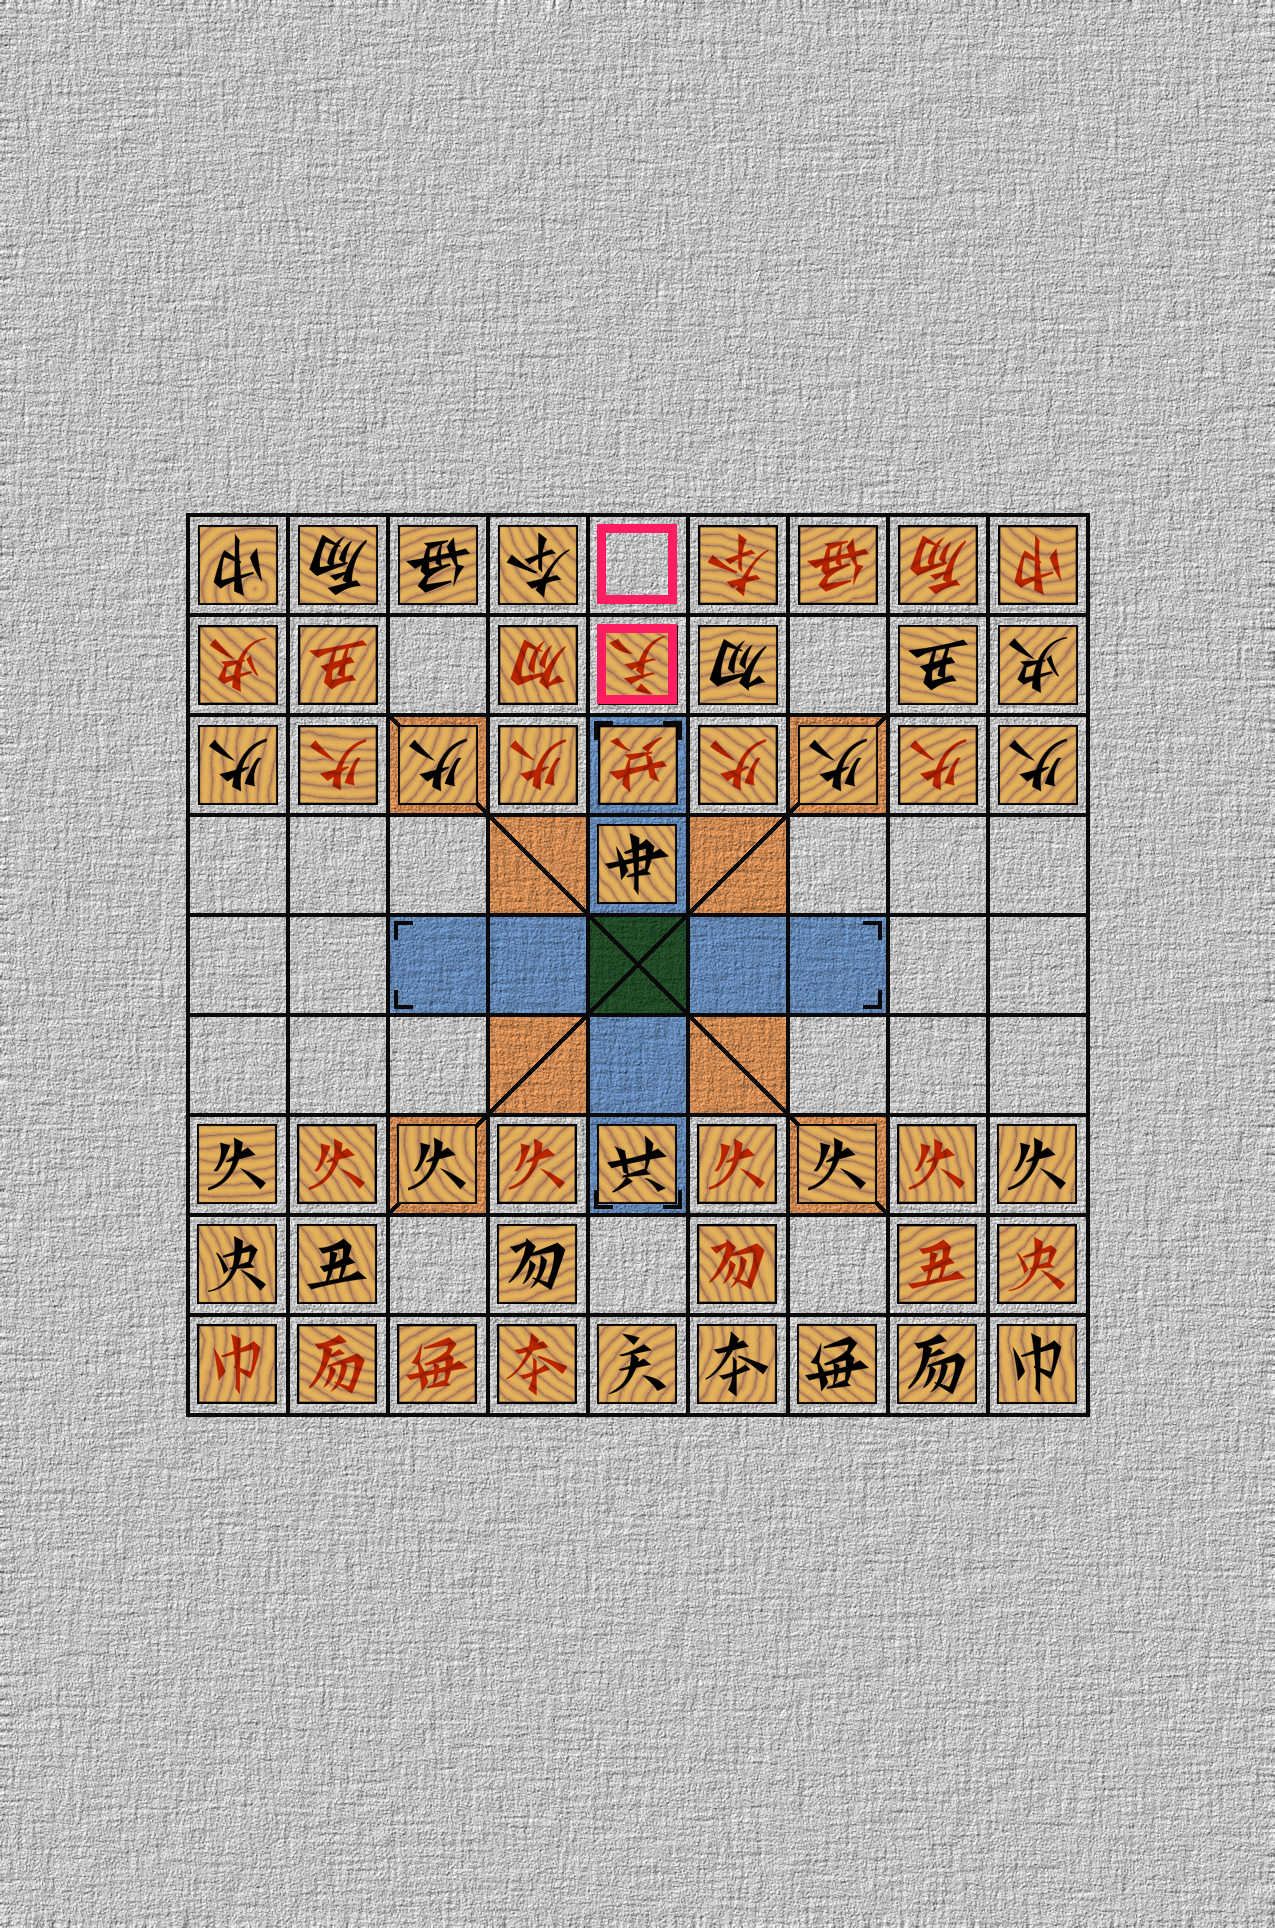
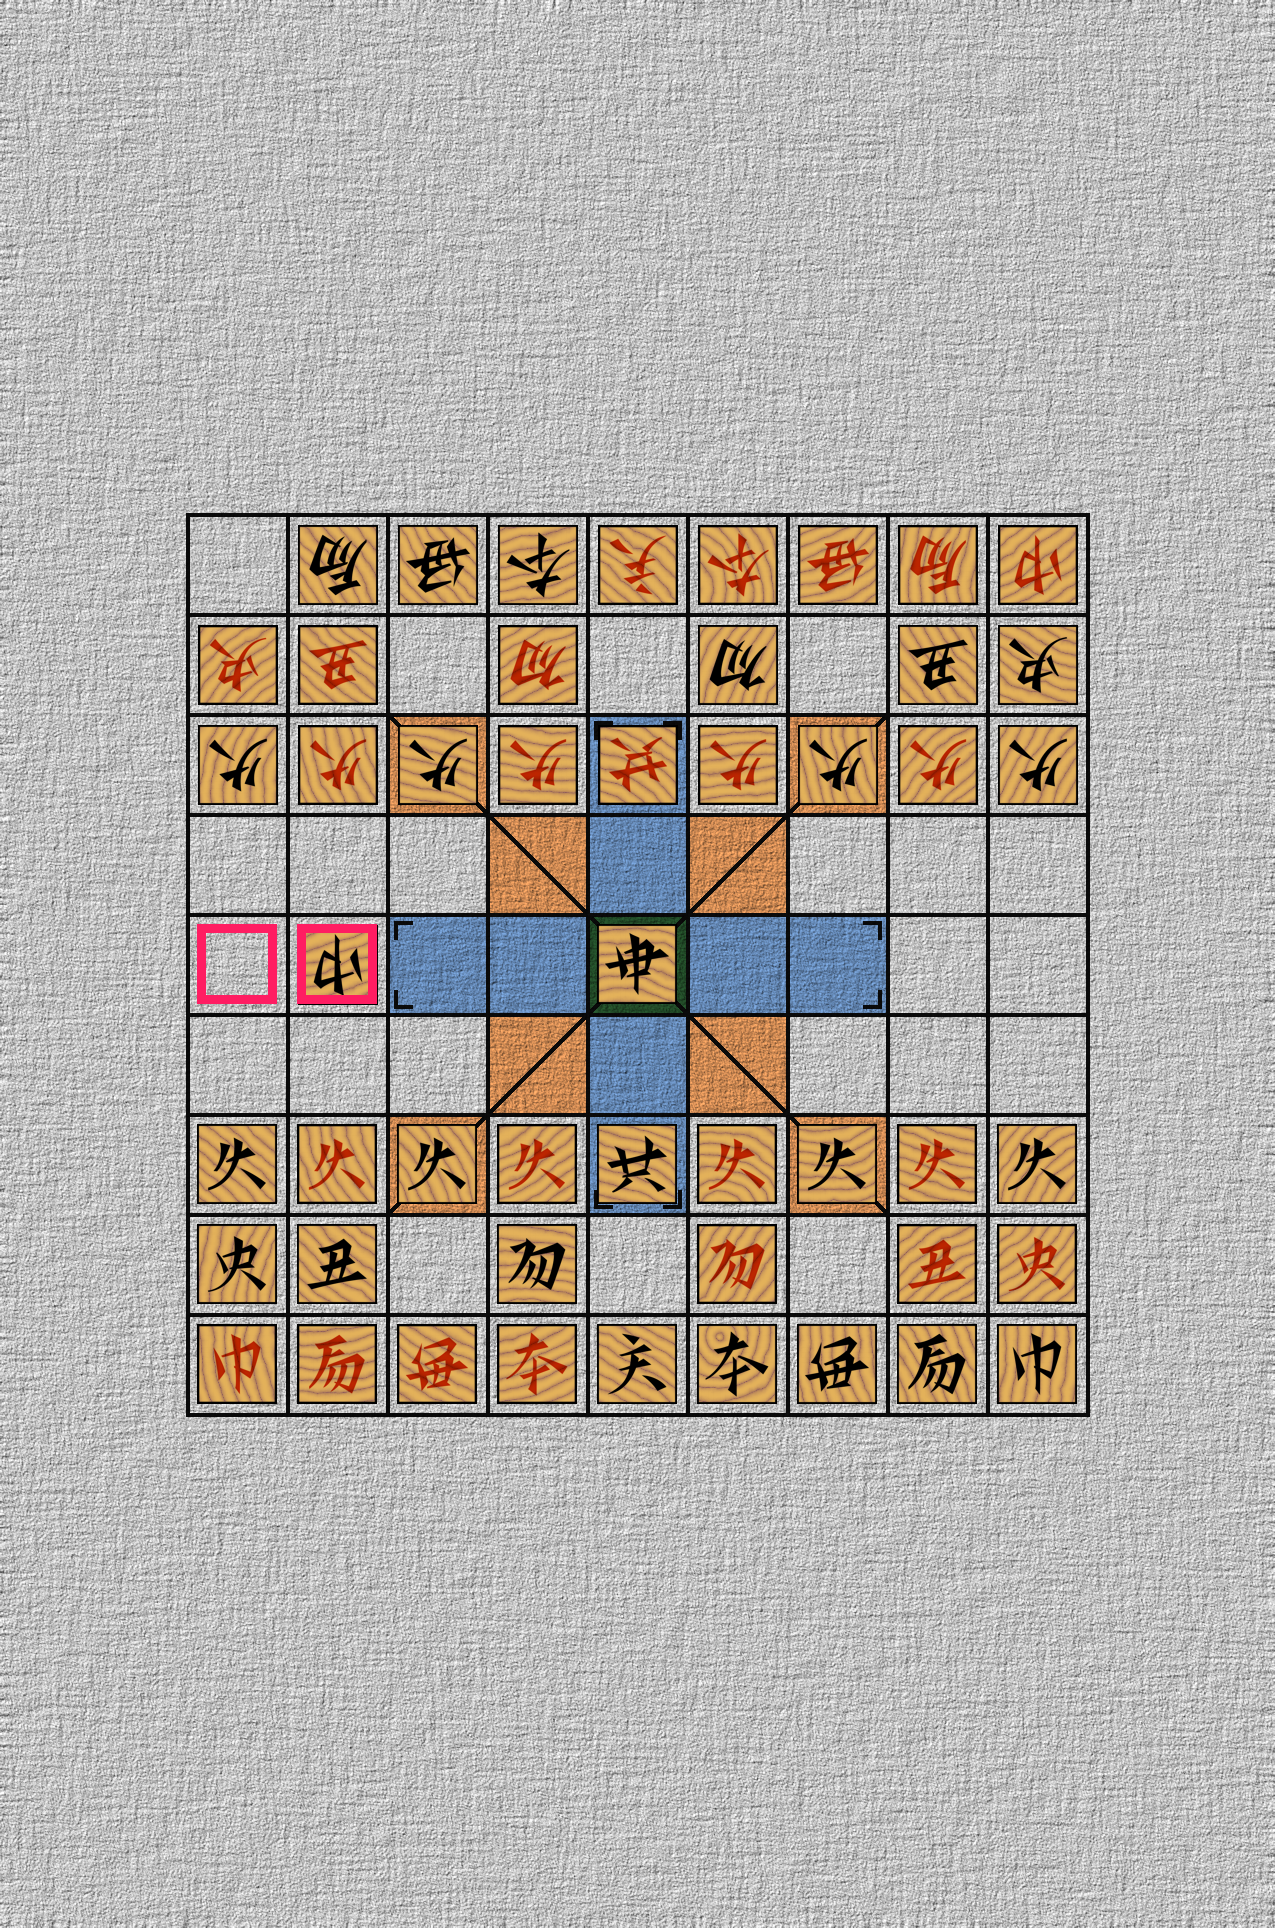
split off render_current

Changed region(s): [[0.1529, 0.249, 0.8565, 0.529], [0.1529, 0.5913, 0.8565, 0.7469], [0.1529, 0.4668, 0.3059, 0.529]]

diff --git a/src/main.rs b/src/main.rs
@@ -12,7 +12,7 @@ use serenity::prelude::{Context, EventHandler};
 pub mod bot;
 
 #[group]
-#[commands(ping, log, initiate, mov)]
+#[commands(ping, log, initiate, mov, show)]
 struct General;
 
 use std::env;
@@ -49,15 +49,18 @@ use render_cerke_board::*;
 use std::fs::File;
 
 #[command]
-fn initiate(ctx: &mut Context, msg: &Message) -> CommandResult {
+fn show(ctx: &mut Context, msg: &Message) -> CommandResult {
+    render_current(ctx, msg)
+}
+
+fn render_current(ctx:  &mut Context, msg: &Message) -> CommandResult {
     let map = serde_json::json!({
         "content": "Loading...",
         "tts": false,
     });
     ctx.http.send_message(msg.channel_id.0, &map)?;
 
-    let mut field = bot::FIELD.lock().unwrap();
-    *field = Field::new();
+    let field = bot::FIELD.lock().unwrap();
 
     field.render(Side::IASide).save("iaside.png").unwrap();
     field.render(Side::ASide).save("aside.png").unwrap();
@@ -71,6 +74,15 @@ fn initiate(ctx: &mut Context, msg: &Message) -> CommandResult {
         serde_json::Map::new(),
     )?;
     Ok(())
+}
+
+#[command]
+fn initiate(ctx: &mut Context, msg: &Message) -> CommandResult {
+    {
+        let mut field = bot::FIELD.lock().unwrap();
+        *field = Field::new();
+    }
+    render_current(ctx, msg)
 }
 
 fn parse_coord(coord: &str) -> Option<(Row, Column)> {
@@ -161,28 +173,12 @@ fn mov(ctx: &mut Context, msg: &Message) -> CommandResult {
 
     println!("moving; src: {:?},  dst: {:?}", src, dst);
 
-    let map = serde_json::json!({
-        "content": "Loading...",
-        "tts": false,
-    });
-    ctx.http.send_message(msg.channel_id.0, &map)?;
-
-    let mut field = bot::FIELD.lock().unwrap();
-    scold_operation_error(ctx, msg, field.move_to_empty_square(dst, src))?;
-
-    field.render(Side::IASide).save("iaside.png").unwrap();
-    field.render(Side::ASide).save("aside.png").unwrap();
-
-    let iaside = File::open("./iaside.png")?;
-    let aside = File::open("./aside.png")?;
-
-    ctx.http.send_files(
-        msg.channel_id.0,
-        vec![(&iaside, "iaside.png"), (&aside, "aside.png")],
-        serde_json::Map::new(),
-    )?;
-
-    Ok(())
+    {
+        let mut field = bot::FIELD.lock().unwrap();
+        scold_operation_error(ctx, msg, field.move_to_empty_square(dst, src))?;
+    }
+    
+    render_current(ctx, msg)
 }
 
 fn scold_operation_error(
